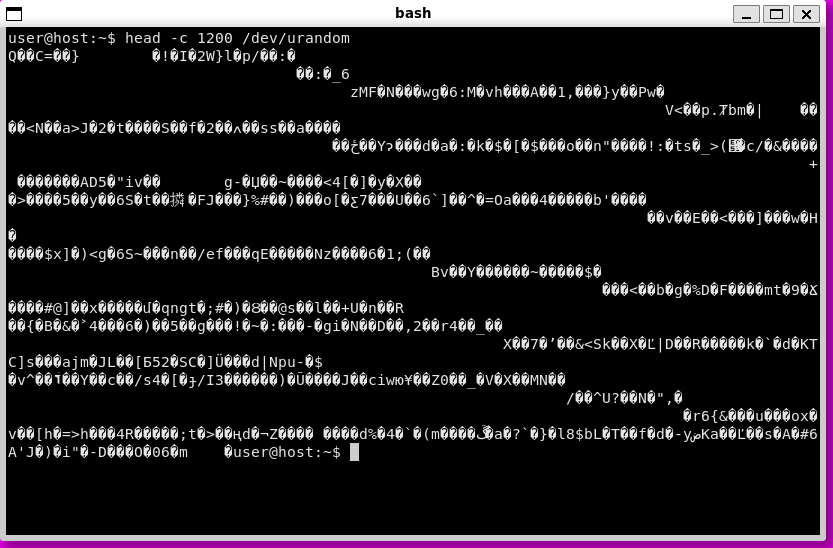
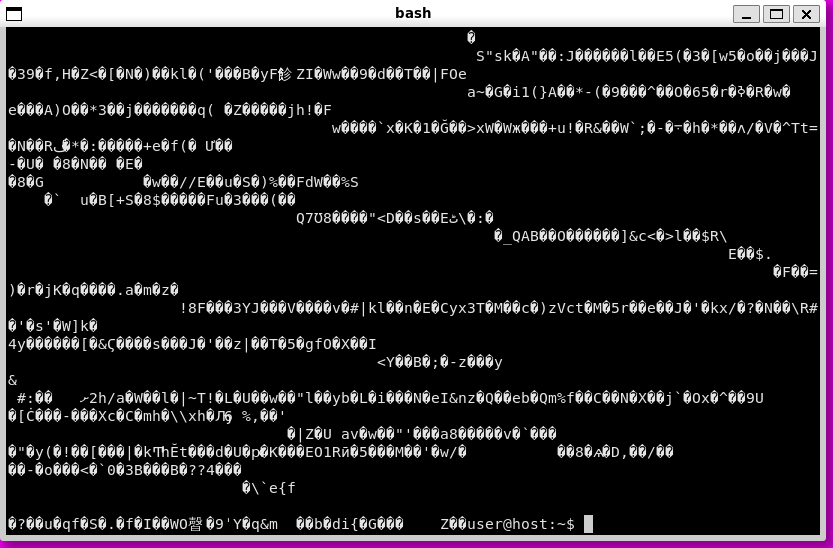
comparison: fix broken st shot; correct title count; link the source
Re-shot st (the harness cwd fix): title now hijacked to root@prod-db, stuck
red + line-drawing -- the caption is true again. The attacker title reads back
on SEVEN of nine, not eight (kitty's shell integration resets it at the prompt
too, alongside konsole). Added a small note below the shots linking capture.sh
and hostile-script.sh, so it is clear nothing is hand-drawn.

AI-Assisted

diff --git a/comparison/index.html b/comparison/index.html
@@ -119,6 +119,7 @@
     <figure class="shot"><figcaption class="shotname"><b>st</b> - garbled.</figcaption><a href="shots/st.random.png" target="_blank" rel="noopener"><img src="shots/st.random.png" width="833" height="548" loading="lazy" alt="st displaying random bytes: garbled."></a></figure>
     <figure class="shot"><figcaption class="shotname"><b>kitty</b> (GPU) - garbled, replacement glyphs.</figcaption><a href="shots/kitty.random.png" target="_blank" rel="noopener"><img src="shots/kitty.random.png" width="779" height="500" loading="lazy" alt="kitty displaying random bytes: garbled with replacement glyphs."></a></figure>
   </div>
+  <p class="shotsrc">These shots are generated by <a href="https://github.com/secure-terminal/terminal-poc-corpus/blob/master/comparison/capture.sh" rel="noopener"><code>capture.sh</code></a> (the exact bytes come from <a href="https://github.com/secure-terminal/terminal-poc-corpus/blob/master/comparison/hostile-script.sh" rel="noopener"><code>hostile-script.sh</code></a>) - nothing here is hand-drawn.</p>
 </div></section>
 
 <section class="cat" id="results"><div class="wrap">
@@ -138,9 +139,10 @@
   </div>
   <p class="catdesc" style="margin-top:12px">Every traditional emulator was corrupted - all nine
     garbled with stuck colours in Case B, a stuck charset on most, and the attacker-controlled title
-    reads back in the compositor's title bar on eight of the nine (konsole applied the escape to its
-    session but keeps its own name in the bar; it stored the value and corrupted the screen all the
-    same). <b>Modern GPU terminals are not exempt.</b> The visible
+    reads back in the compositor's title bar on seven of the nine (konsole keeps its own session name
+    in the bar, and kitty's shell integration reset the hijacked title to the cwd at the next prompt;
+    both still applied the escape and corrupted the screen all the same). <b>Modern GPU terminals are
+    not exempt.</b> The visible
     garble clears with <code>reset</code>, but the silent title change usually does not, and only
     if you notice and type <code>reset</code> at a screen that may be unusable. Nothing crashed
     or hung; the danger is the silent title hijack and the clipboard write, not instability.</p>

diff --git a/style.css b/style.css
@@ -96,6 +96,7 @@
   @media(max-width:640px){ .cmp{font-size:.86rem} .cmp th,.cmp td{padding:9px 8px} }
   .shotgrid{display:grid;grid-template-columns:repeat(auto-fit,minmax(440px,1fr));gap:20px;margin:8px 0 0}
   @media(max-width:520px){ .shotgrid{grid-template-columns:1fr} }
+  .shotsrc{font-size:.82rem;color:var(--muted);margin:14px 0 0;text-align:center}
   .shot{margin:0;border:1px solid var(--line);border-radius:11px;overflow:hidden;background:var(--card);display:flex;flex-direction:column}
   .shot a{display:block;line-height:0}
   .shot img{display:block;width:100%;height:auto;background:#000}